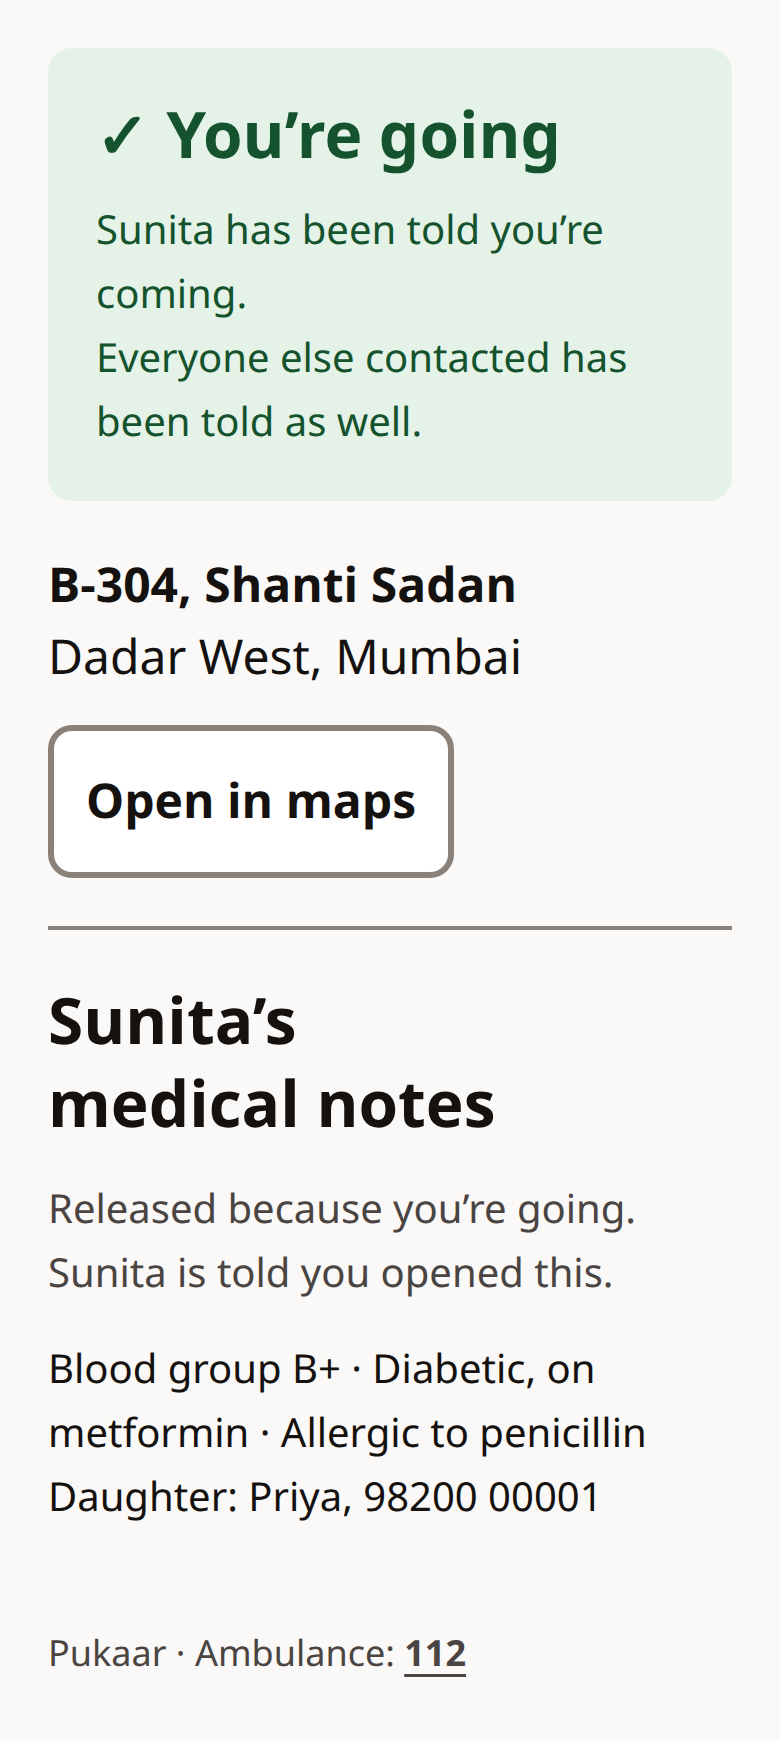
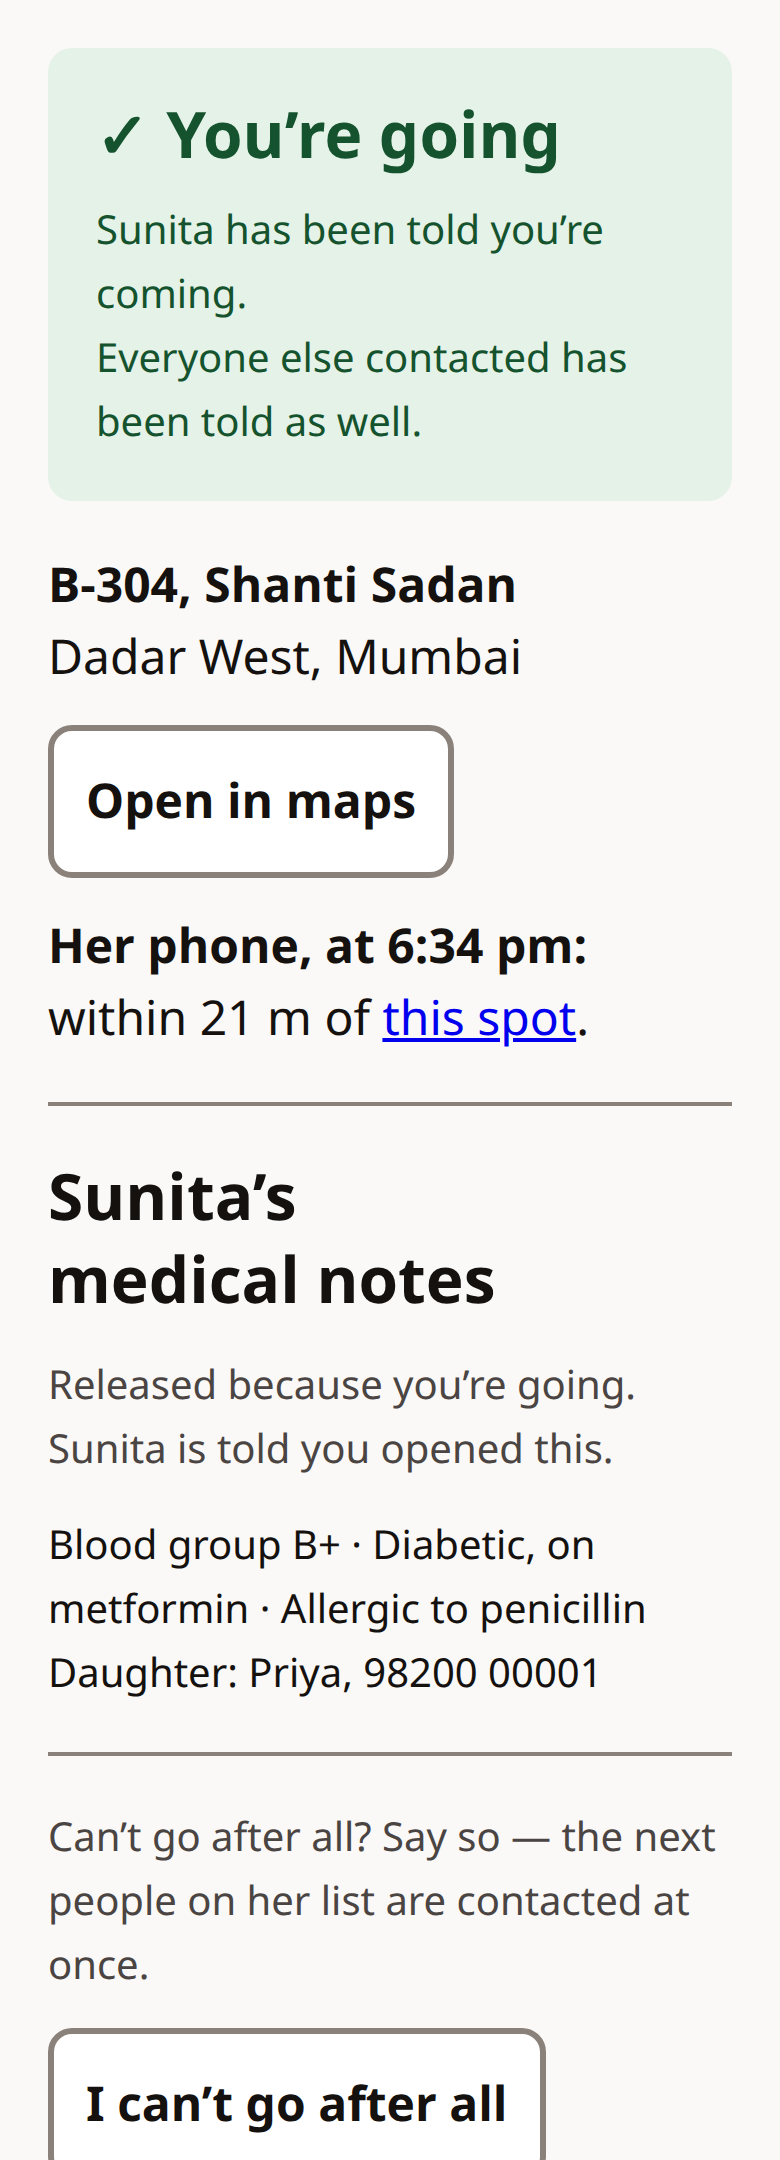
Screens refreshed from the live stack: her button in Marathi, the step-back on her screen, the check-in, one alert's timeline

Changed region(s): [[0.0615, 0.031, 0.9231, 1.0]]

diff --git a/README.md b/README.md
@@ -39,8 +39,14 @@ Pukaar replaces the sequence with a fan-out. One press pages the three people mo
   <img src="docs/04-already-on-the-way.png" width="19%" alt="The loser of the race: Ravi is already on the way">
   <img src="docs/05-cancelled.png" width="19%" alt="After she cancels: Sunita cancelled this alert">
 </p>
+<p align="center">
+  <img src="docs/06-her-button-marathi.png" width="19%" alt="Her screen in Marathi: मला मदत हवी आहे, and who will be told">
+  <img src="docs/07-cant-come.png" width="19%" alt="Her screen after the one who claimed stepped back: Ravi can't come after all, and who has been told now">
+  <img src="docs/09-checkin.png" width="19%" alt="The weekly check-in a contact opens: NOT AN EMERGENCY, Sunita is fine, I'd be reachable now">
+  <img src="docs/08-timeline.png" width="38%" alt="The timeline of one alert: the press, three told at once, Ravi is going, notes opened, Ravi can't go after all, the next circle paged, cancelled, everyone told">
+</p>
 
-*Her button · the alert · you're going (with the notes) · already on the way · cancelled. Every text colour on these screens is at least 7:1 against its background, the AAA line; the button is 240 px tall, every other target at least 48 px.*
+*Top: her button · the alert (with where her phone is) · you're going (the notes, and "I can't go after all") · already on the way · cancelled. Bottom: her button in Marathi · her screen after Ravi stepped back · the weekly check-in · one alert's timeline, every line a row. All from real alerts on the live stack, 18 Sep. Every text colour on these screens is at least 7:1 against its background, the AAA line; the button is 240 px tall, every other target at least 48 px.*
 
 ### Correctness properties, stated
 
